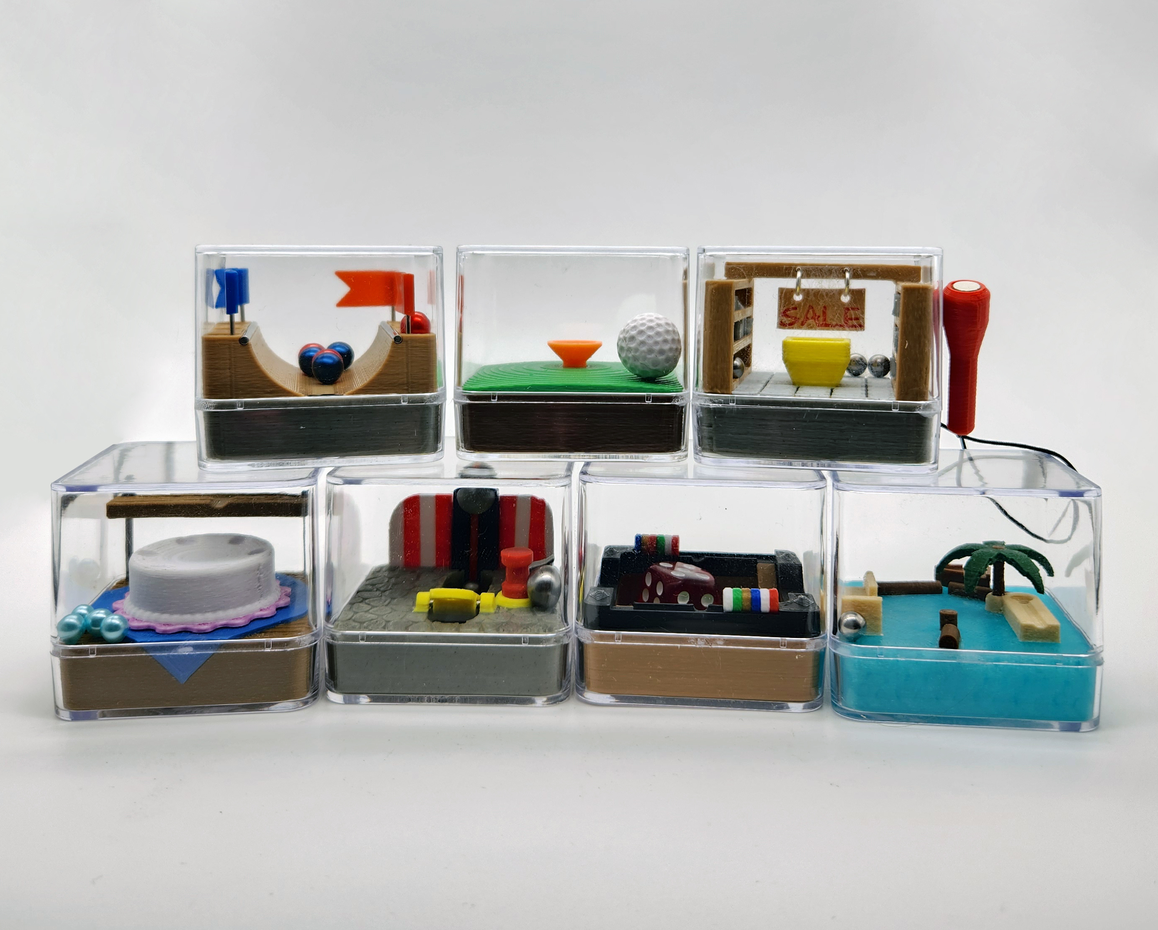
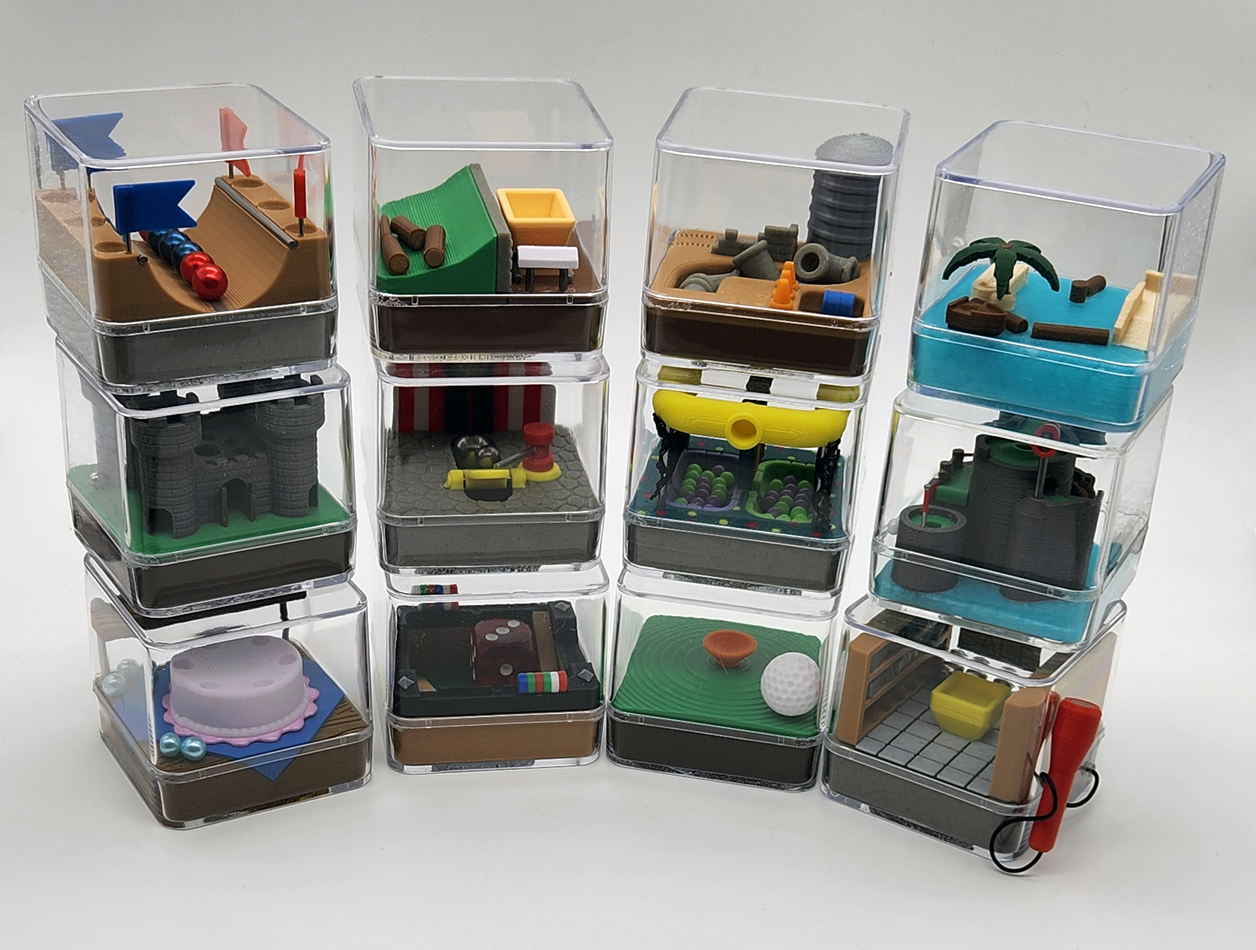
More products added

diff --git a/products.html b/products.html
@@ -54,23 +54,29 @@
       <h5 class="w3-padding-32">Under the brand &quot;Core Mods&quot; I design and 3D print a large variety of mechanical puzzles. Challenging and collectable, mechanical puzzles can range from boxes with trick openings to pieces that must be fit in a frame to objects that must be disassembled or assembled in a secret way. See the <a href="https://coremods.etsy.com">Core Mods shop</a> for more products.</h5>
       <div class="popup-gallery w3-center">
 	<a href="images/products/eggs.jpg" title="My best-selling product: the Unstable Eggs. Each colored egg has an internal mechanism that can be manipulated such that the egg can stand up straight without assistance. But if you don;t know the secret, they'll just topple over."><img src="images/products/eggs.jpg" width="150" height="150"></a>
-    <a href="images/products/egginside.png" title="An internal view of one of my Unstable Eggs. With the addition of a heavy ball bearing during manufacturing creates a physical system with two distinct states of entropy."><img src="images/products/egginside.png" width="150" height="150"></a>
+    <a href="images/products/egginside.png" title="An internal view of one of my Unstable Eggs. The addition of a heavy ball bearing during manufacturing creates a physical system with two distinct states of entropy."><img src="images/products/egginside.png" width="150" height="150"></a>
 	<a href="images/products/ice.jpg" title="An extremely popular genre of puzzle is one called sequential discovery. SD puzzles involve finding a series of steps that unlock further steps, often with built-in removable tools. Ice Box is a combination of this principle with the application of a puzzle box that holds a reward for solving."><img src="images/products/ice.jpg" width="150" height="150"></a>
 	<a href="images/products/price.jpg" title="The Priceless Puzzles series are a set of take-apart puzzles themed after precious minerals. Here they're displayed in my self-designed retail packaging."><img src="images/products/price.jpg" width="150" height="150"></a>
     <a href="images/products/diamond.jpg" title="A close-up of Diamond from the Priceless Puzzles series."><img src="images/products/diamond.jpg" width="150" height="150"></a>
     <a href="images/products/pearl.jpg" title="A close-up of Pearl from the Priceless Puzzles series."><img src="images/products/pearl.jpg" width="150" height="150"></a>
+    <a href="images/products/topaz.jpg" title="A close-up of Topaz from the Priceless Puzzles series."><img src="images/products/topaz.jpg" width="150" height="150"></a>
     <a href="images/products/ghouse.jpg" title="A heavily themed build of a twisty puzzle designed to resemble a gingerbread house. Some pieces are stuck together by the house's features, making the solve more difficult."><img src="images/products/ghouse.jpg" width="150" height="150"></a>
     <a href="images/products/reactor.jpg" title="With rods and holes of three differing depths, Reactor is the packing puzzle that fights back. Finding a place for one of the pieces may bring only a short-lived victory, as hidden magnets will sometimes reject the placement. Reactor is expandable with multiple piece sets of varying difficulties."><img src="images/products/reactor.jpg" width="150" height="150"></a>
     <a href="images/products/reactorset.jpg" title="An example of an alternative piece set for Reactor."><img src="images/products/reactorset.jpg" width="150" height="150"></a>
     <a href="images/products/slide.jpg" title="An innovative multi-layered multi-colored translucent slide puzzle. As the pieces are shuffled, the colors mix, making for a beautiful but chaotic solve."><img src="images/products/slide.jpg" width="150" height="150"></a>
     <a href="images/products/slideshuffled.jpg" title="The previous slide puzzle in a shuffled state."><img src="images/products/slideshuffled.jpg" width="150" height="150"></a>
     <a href="images/products/slidenum.jpg" title="Another of my translucent slide puzzles in a shuffled state, this time with rotatable number tiles."><img src="images/products/slidenum.jpg" width="150" height="150"></a>
-    <a href="images/products/slidenum.jpg" title="A group shot of my Dexterity Dimensions puzzles. Each puzzle is its own little themed vignette."><img src="images/products/ddgroup.jpg" width="150" height="150"></a>
-    <a href="images/products/slidenum.jpg" title="Dexterity Dimensions are dynamic and lively. Here you must try to get all the toppers onto this spinning cake."><img src="images/products/ddcake.jpg" width="150" height="150"></a>
-    <a href="images/products/slidenum.jpg" title="As thrilling as a night in Vegas, getting the balls to rest in the pips of the six is challenging but approachable."><img src="images/products/ddvegas.jpg" width="150" height="150"></a>
-    <a href="images/products/slidenum.jpg" title="Try to use the magnet to drop all five balls into the bin."><img src="images/products/ddstore.jpg" width="150" height="150"></a>
-    <a href="images/products/slidenum.jpg" title="A packing puzzle with a twist. Ropes between the pieces threaten to tangle at every step."><img src="images/products/knotty.jpg" width="150" height="150"></a>
-    <a href="images/products/slidenum.jpg" title="A set of my puzzle locks. Open the shackles but all is not how it appears."><img src="images/products/locks.jpg" width="150" height="150"></a>
+    <a href="images/products/ddgroup.jpg" title="A group shot of my Dexterity Dimensions puzzles. Each puzzle is its own little themed vignette."><img src="images/products/ddgroup.jpg" width="150" height="150"></a>
+    <a href="images/products/ddcake.jpg" title="Dexterity Dimensions are dynamic and lively. Here you must try to get all the toppers onto this spinning cake."><img src="images/products/ddcake.jpg" width="150" height="150"></a>
+    <a href="images/products/ddvegas.jpg" title="As thrilling as a night in Vegas, getting the balls to rest in the pips of the six is challenging but approachable."><img src="images/products/ddvegas.jpg" width="150" height="150"></a>
+    <a href="images/products/ddstore.jpg" title="Try to use the magnet to drop all five balls into the bin."><img src="images/products/ddstore.jpg" width="150" height="150"></a>
+    <a href="images/products/knotty.jpg" title="A packing puzzle with a twist. Ropes between the pieces threaten to tangle at every step."><img src="images/products/knotty.jpg" width="150" height="150"></a>
+    <a href="images/products/locks.jpg" title="A set of my puzzle locks. Open the shackles but all is not how it appears."><img src="images/products/locks.jpg" width="150" height="150"></a>
+    <a href="images/products/crossroads.jpg" title="Crossroads is a tricky but addicting puzzle with a rotating core and two intersecting moving pistons used to scramble the position of the colored beads."><img src="images/products/crossroads.jpg" width="150" height="150"></a>
+    <a href="images/products/scramble.jpg" title="Crossroads, but now scrambled! Can you handle the challenge?"><img src="images/products/scramble.jpg" width="150" height="150"></a>
+    <a href="images/products/solitary.jpg" title="Solitary confinement is a confounding packing puzzle with only one piece. The goal: place the stone sphere entirely inside the large hole on top."><img src="images/products/solitary.jpg" width="150" height="150"></a>
+    <a href="images/products/cards1.jpg" title="These ornate boxes are the perfect size for giving gift cards."><img src="images/products/cards1.jpg" width="150" height="150"></a>
+    <a href="images/products/cards2.jpg" title="Recipients will be able to see their gift just out of reach!"><img src="images/products/cards2.jpg" width="150" height="150"></a>
 </div>
       <p class="w3-text-grey">Click an image to open the gallery.</p>
     </div>
